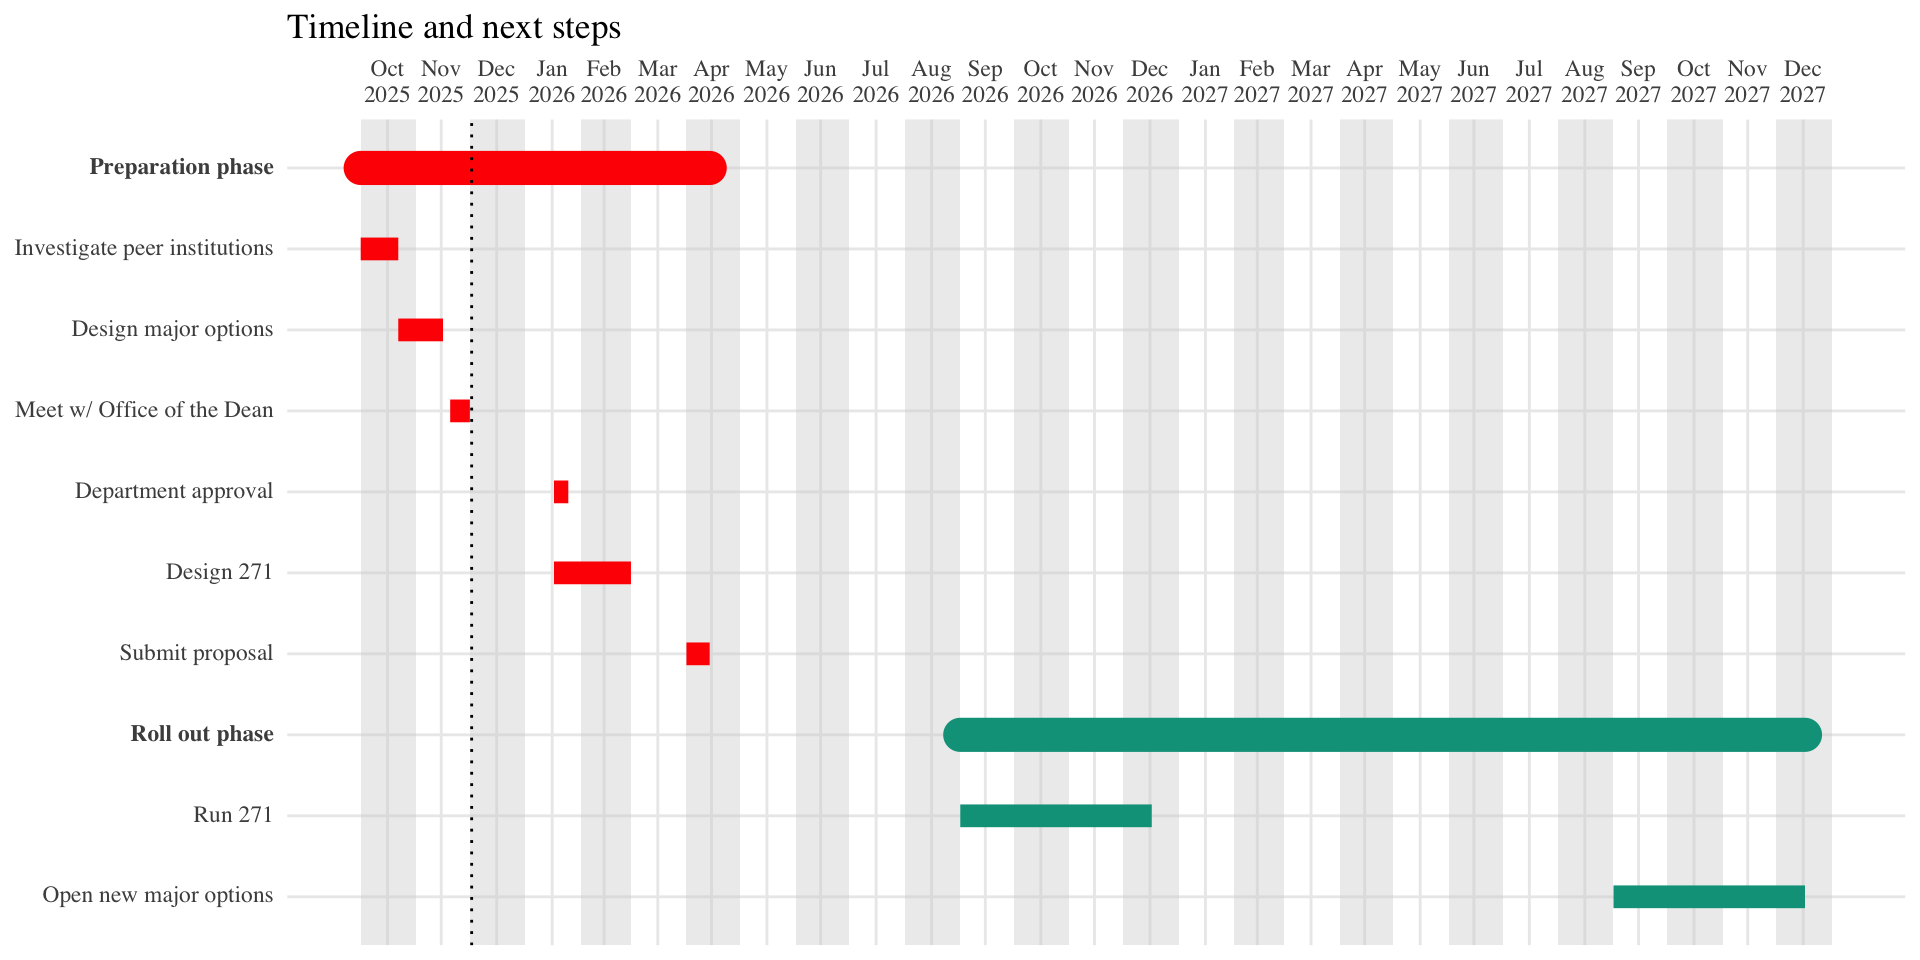
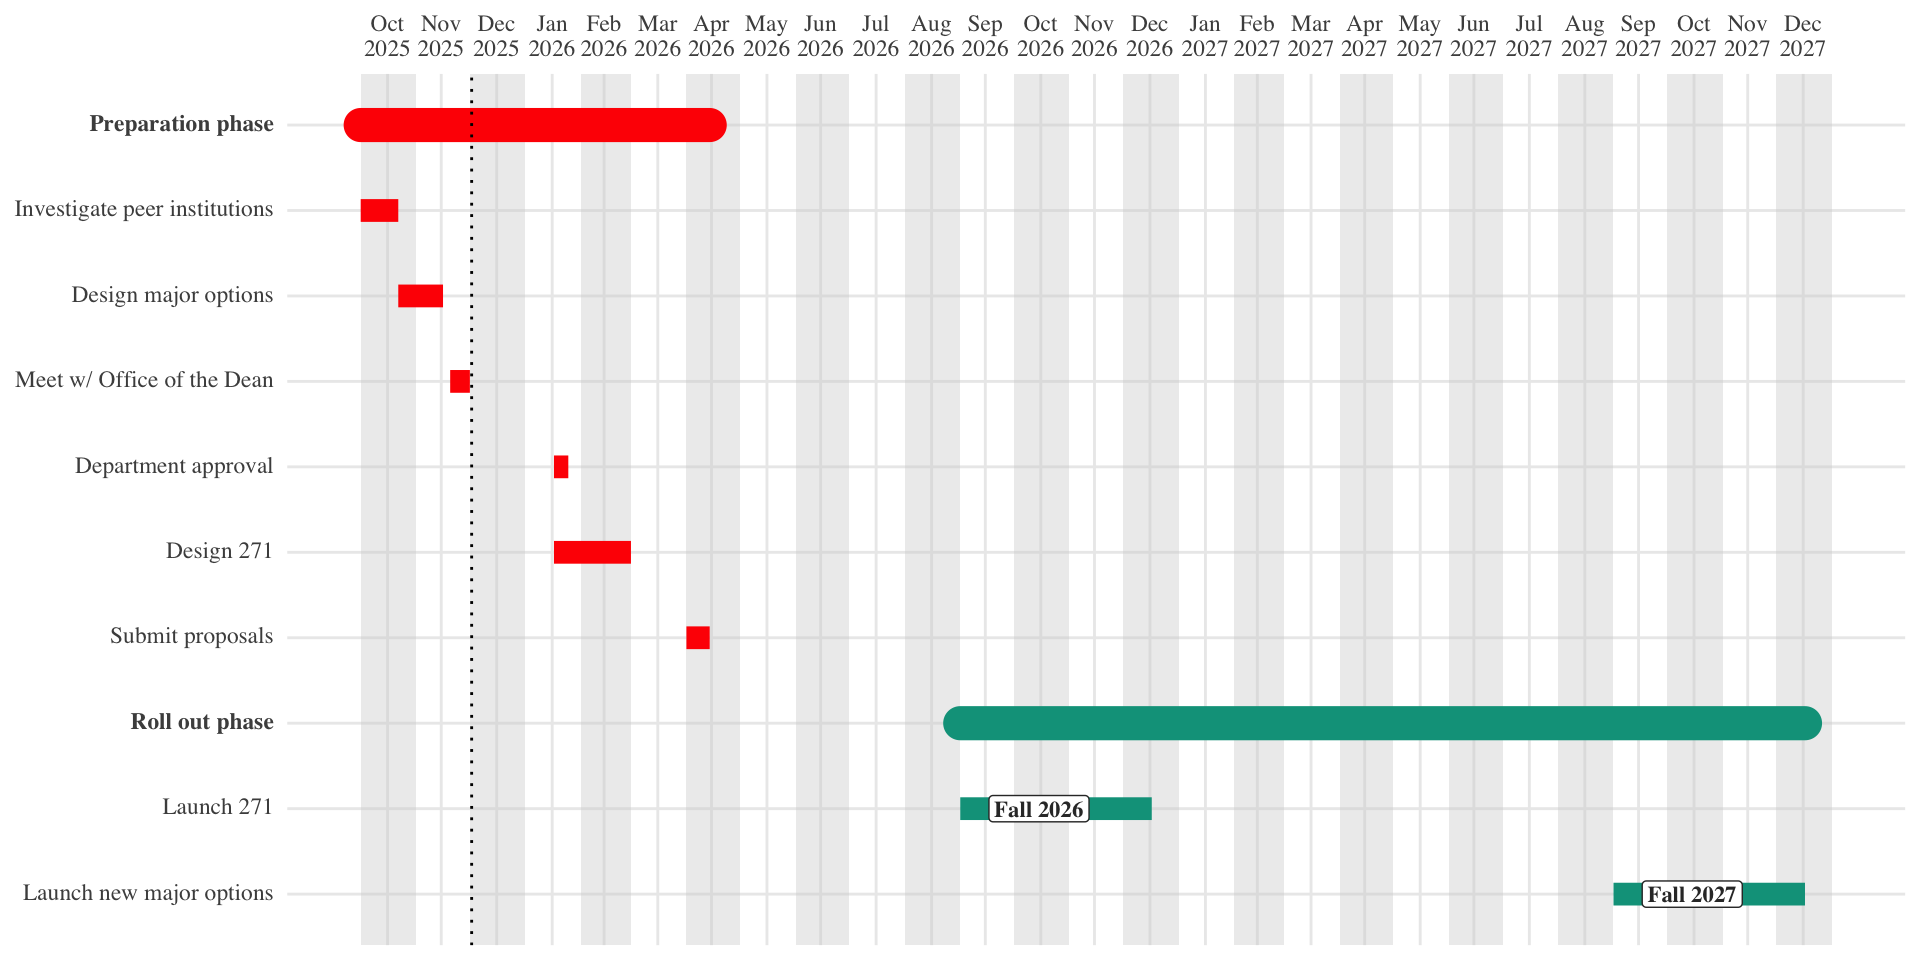
add quotes

diff --git a/span_port_assessment/slides/new_major/index.html b/span_port_assessment/slides/new_major/index.html
@@ -243,16 +243,15 @@ Courses taught in Spanish, English, and Portuguese accepted.</p>
 <h2>Language intensive option</h2>
 <p>Consists of a minimum of 33 credits at the 200-level or above completed with a grade of C or better in each course.</p>
 <div class="fragment">
-<p><strong>I. Lower Division Requirements:</strong></p>
+<p><strong>I. Lower Division Requirements: <br>200-level (2 of the 3 areas, 6 credits)</strong></p>
 <ul>
-<li>200-level (6 credits)</li>
 <li>215 Intro Hispanic Literature</li>
 <li>261 Intro Study of Language</li>
 <li>271 Intro to translation (new)</li>
 </ul>
 </div>
 <div class="fragment">
-<p><strong>II. Upper Division Requirements</strong> 300 Level or above (2 of the 3 areas, 6 credits)</p>
+<p><strong>II. Upper Division Requirements: <br>300 Level or above (2 of the 3 areas, 6 credits)</strong></p>
 <ul>
 <li>Literature and culture (3 credits)</li>
 <li>Linguistics (3 credits)</li>
@@ -274,10 +273,36 @@ Up to 3 credits can be taken in 940 courses taught in English</p>
 </section>
 <section id="section" class="slide level2">
 <h2></h2>
+<p><span class="emph p-font" style="font-size: 1.1em;">Timeline and next steps</span></p>
 
 <img data-src="index_files/figure-revealjs/unnamed-chunk-2-1.png" width="960" class="r-stretch"></section>
-<section id="additional-considerations-1" class="slide level2">
+<section id="additional-considerations-1" class="slide level2 center">
 <h2>Additional considerations</h2>
+<ul>
+<li><p>“Ensure learning goals are lined up with curricular options”</p></li>
+<li><p>Discuss with other departments regarding credits outside dept (interdisciplinary option)</p></li>
+<li><p>Get feedback from current students about new options and current major</p></li>
+</ul>
+</section>
+<section id="current-major" class="slide level2" data-background-color="black">
+<h2>Current major</h2>
+<p>“400 level - 6 credits, but not many options offered at 400 level in reality”</p>
+<p>“Advanced grammar &amp; comp: good in theory but when I took this class it just felt like a high school level grammar class - not as advanced. I thought it was really easy &amp; I took it as a freshman.”</p>
+<p>“I think a grammar class would be good for the new intensive major - but idk if it makes sense now if you’re replacing it w/ the new translation course”</p>
+</section>
+<section id="interdisciplinary-major" class="slide level2" data-background-color="black">
+<h2>Interdisciplinary major</h2>
+<p>“New major is cool I think it will attract more people into Spanish classes”</p>
+<p>“Credit from other departments also cool - will attract more people to take the major. Why not add more depts? - psychology, international studies, etc.”</p>
+<p>“Nice breakdown between required and electives (credit wise)”</p>
+<p>“Less required courses - depending on placement, good - will attract more people if they don’t want to start from scratch”</p>
+</section>
+<section id="intensive-major" class="slide level2" data-background-color="black">
+<h2>Intensive major</h2>
+<p>“Capstone is a cool addition - what would that entail?”</p>
+<p>“3 credits in 940 taught in English :( Makes sense to attract more students, but lowk goes against the intensive aspect. But since it’s only 3 credits makes sense”</p>
+<p>“Nice breakdown between lower, upper, and electives (credit wise)”</p>
+<p>“Credit from other departments also cool - will attract more people to take the major”</p>
 </section>
 <section id="section-1" class="slide level2 center">
 <h2></h2>
